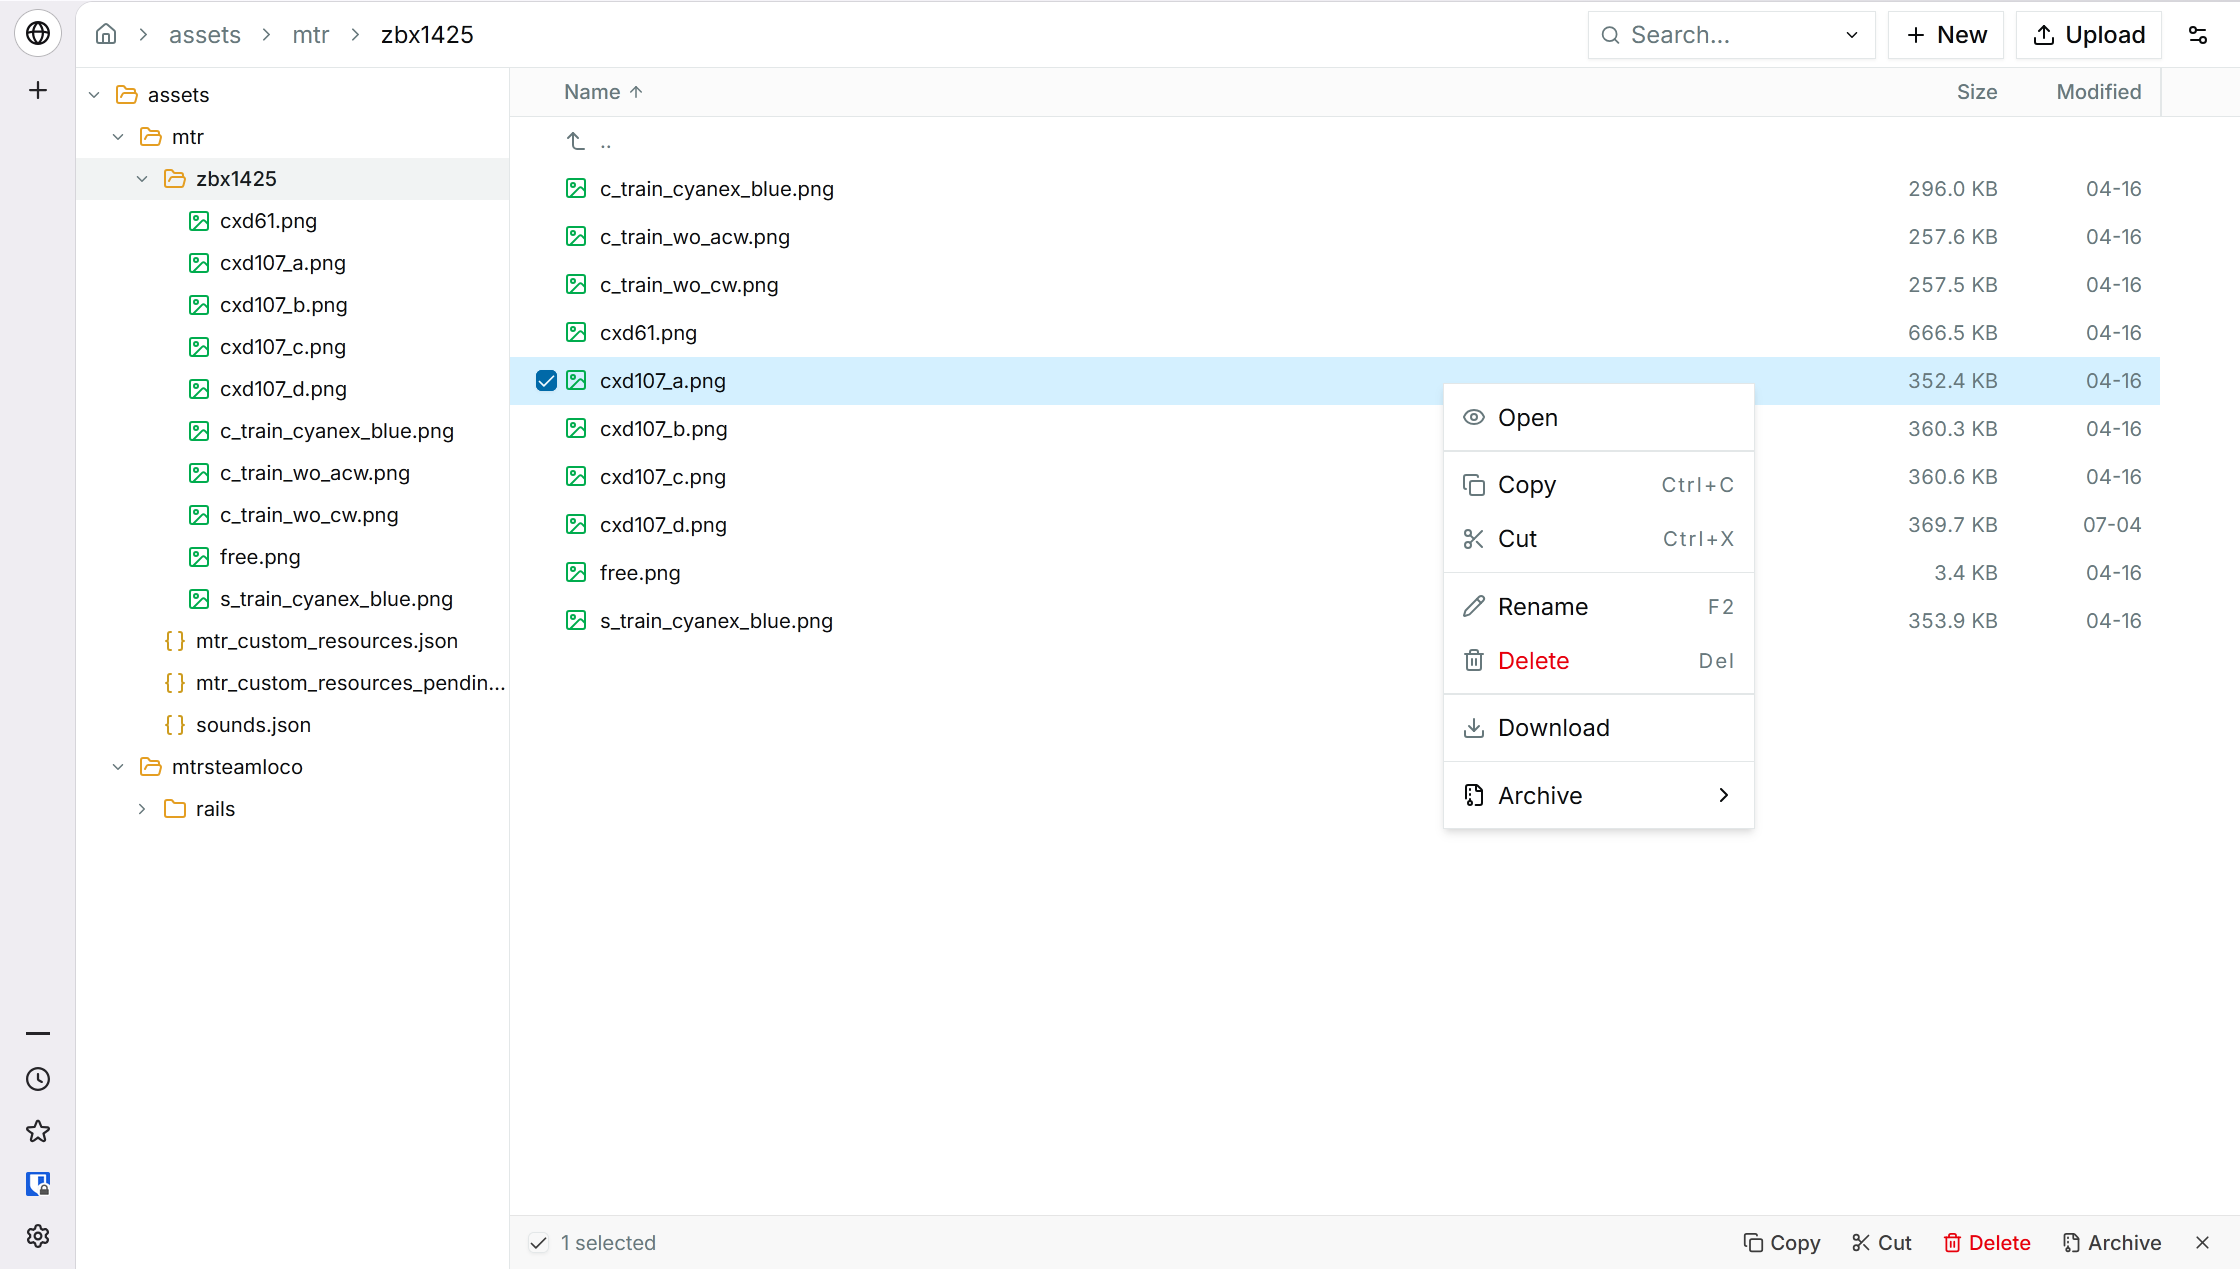
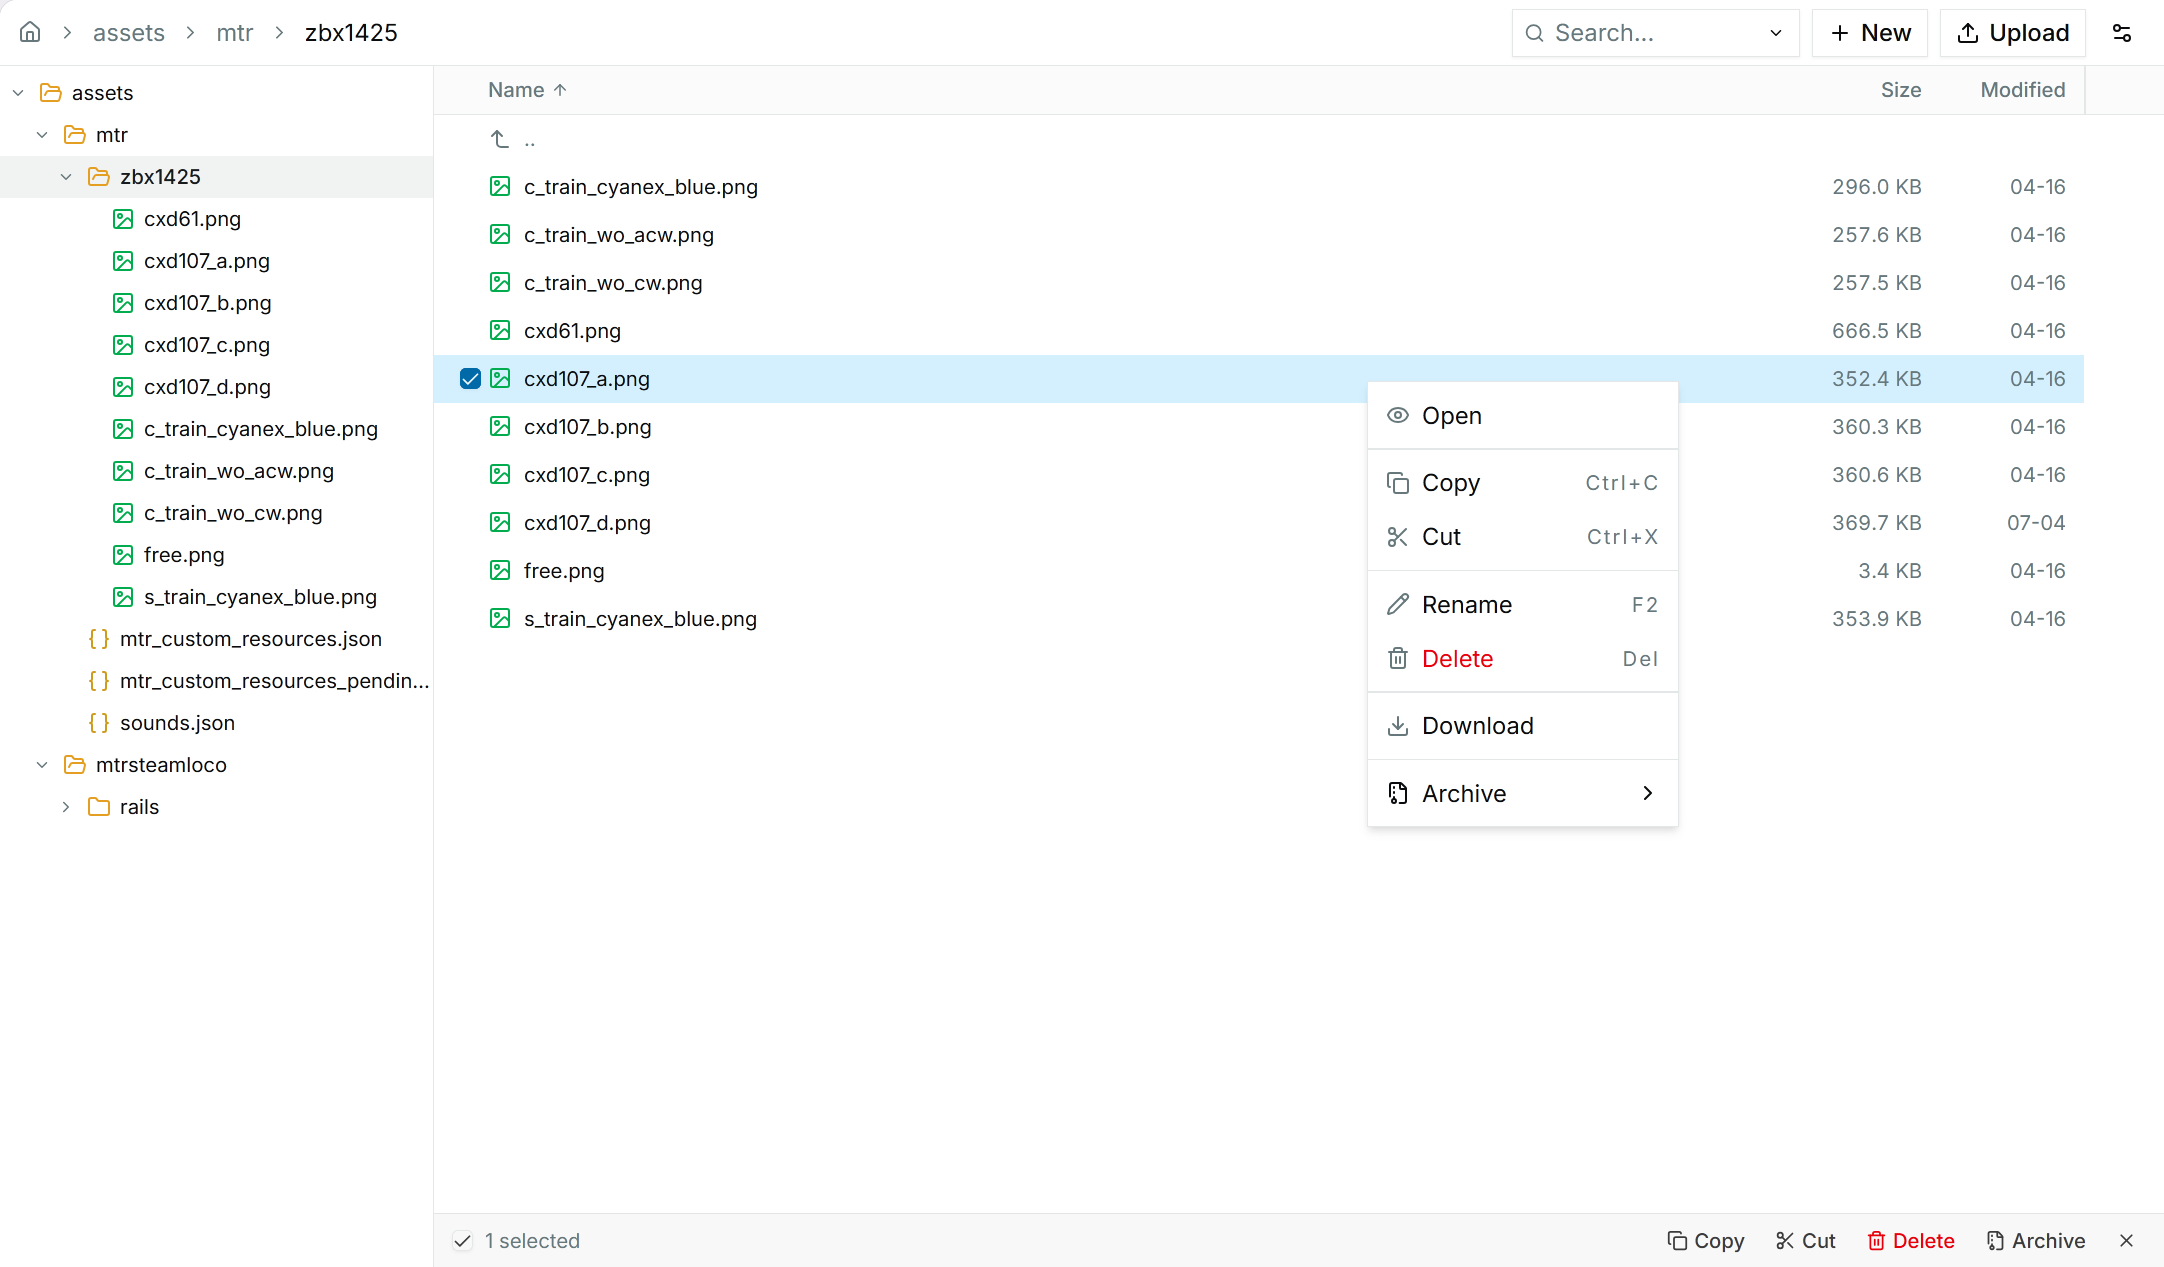
chore: increase version

diff --git a/docs/getting_started.md b/docs/getting_started.md
@@ -21,7 +21,9 @@ Copy `filecarton.php` and `filecarton.config.php` to somewhere your web server c
 
 ### 2. Set a password
 
-Open `filecarton.config.php`. Find `FILECARTON_STATIC_USER_LIST` and replace the default hash:
+Open `filecarton.config.php`. Find `FILECARTON_STATIC_USER_LIST` and replace the default hash.
+
+Run this command in terminal to compute a password hash:
 
 ```bash
 php -r "echo password_hash('<your-password>', PASSWORD_DEFAULT), PHP_EOL;"

diff --git a/README.md b/README.md
@@ -10,6 +10,7 @@
 <p>
 <img src="images/fc-demo-1.png" width="640" alt="FileCarton Demo 1 showing the folder view" />
 <img src="images/fc-demo-2.png" width="640" alt="FileCarton Demo 2 showing the editor" />
+<img src="images/fc-demo-3.png" width="640" alt="FileCarton Demo 2 showing the login page" />
 </p>
 
 
